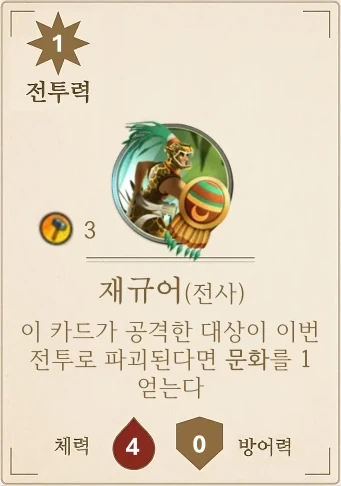
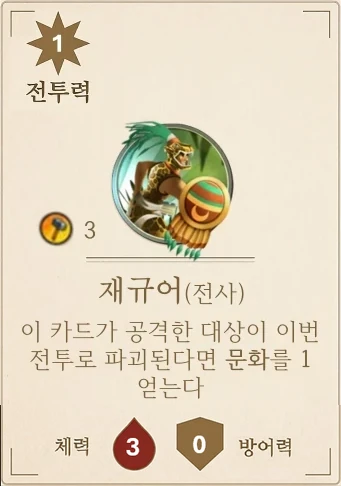
재규어(아즈텍) 체력 4 → 3
- civs.json 능력치, 카드 그림 L·C·R의 체력 칸 수정
- 능력치 테스트 추가, docs/open-questions.md #50

Claude-Session: https://claude.ai/code/session_01LEwiRiXRJPjckZxHM1aEbm

diff --git a/src/engine/__tests__/uniques.test.ts b/src/engine/__tests__/uniques.test.ts
@@ -67,12 +67,13 @@ describe('고유 유닛 데이터', () => {
     for (const [name, supply] of Object.entries(s.uniqueSupply)) expect(supply, name).toHaveLength(3)
   })
 
-  it('카드에 적힌 능력치를 쓴다 (장갑보병, 케식텐, 프라싱야, 화차)', () => {
+  it('카드에 적힌 능력치를 쓴다 (장갑보병, 케식텐, 프라싱야, 화차, 재규어)', () => {
     const st = (name: string) => cardStats({ uid: 0, defId: UNIQUES[name].def.base, unique: name, dirs: ['C'] })
     expect(st('장갑보병')).toMatchObject({ hp: 3, def: 2, marks: [{ dir: 'C', power: 2 }], baseId: 'spearman' })
     expect(st('케식텐')).toMatchObject({ hp: 4, def: 0, choose: 2, noCounter: true, baseId: 'knight' })
     expect(st('프라싱야')).toMatchObject({ hp: 6, def: 3, baseId: 'infantry' })
     expect(st('화차')).toMatchObject({ hp: 2, def: 3, noCounter: true, baseId: 'hwacha' })
+    expect(st('재규어')).toMatchObject({ hp: 3, def: 0, marks: [{ dir: 'C', power: 1 }], baseId: 'warrior' }) // 체력 4 → 3 (사용자 결정)
     expect(st('제고이센')).toMatchObject({ hp: 6, def: 2, coastalOnly: true })
   })
 

diff --git a/docs/open-questions.md b/docs/open-questions.md
@@ -54,6 +54,7 @@
 | 47 | 맡아둔 타일을 돌려보내 돌아온 정찰 일꾼을 그 차례에 쓸 수 있는지 | 사용자 결정: 돌려보낼지는 일꾼 배치(산출) 때 정하고, 돌아온 일꾼은 그 차례에도 쓸 수 있다 (재정찰·선전포고 포함). 배치가 끝난 뒤에는 돌려보낼 수 없다. 이번 차례에 정찰에 쓴 일꾼은 선전포고에 쓸 수 없다 (`declarationWorkers`, `Player.scoutReleasedRound`) |
 | 48 | 엘도라도를 정찰 없이 바로 영토로 처음 뽑을 때 | 사용자 확인: 게임에서 처음 찾은 것이면 발견 문화 1과 영토 문화 1을 모두 받는다 (합계 2). 시작 손뿐 아니라 게임 중 문화로 뽑아도 같다 (`onTileGained`) |
 | 49 | 점령 중인 장군을 불러들이는 때와 다시 쓰는 때 | 사용자 결정(규칙 변경): 일꾼 배치 단계에서만, 원하는 만큼 불러들인다. 불러들인 장군은 그 차례 선전포고에 바로 쓸 수 있다 (예전: 자기 차례 아무 때나, 다음 차례부터 사용). 구현: `recallGeneral`은 place 단계 전용, 바로 `generals`에 더함. `returningGenerals`는 예전 저장 파일 호환용 |
+| 50 | 재규어(아즈텍) 능력치 | 사용자 결정(카드 수정): 체력 4 → 3. 비용 3, 전투력 1, 방어력 0, 효과(공격한 대상이 파괴되면 문화 1)는 그대로. 카드 그림 L·C·R의 체력 칸도 3으로 |
 
 ## 공개 범위 (설계 결정)
 - 공개: 타일·기술·정책·불가사의·군사 카드 **장수**, 로그에 남는 "무엇을 생산·승급했는지".
